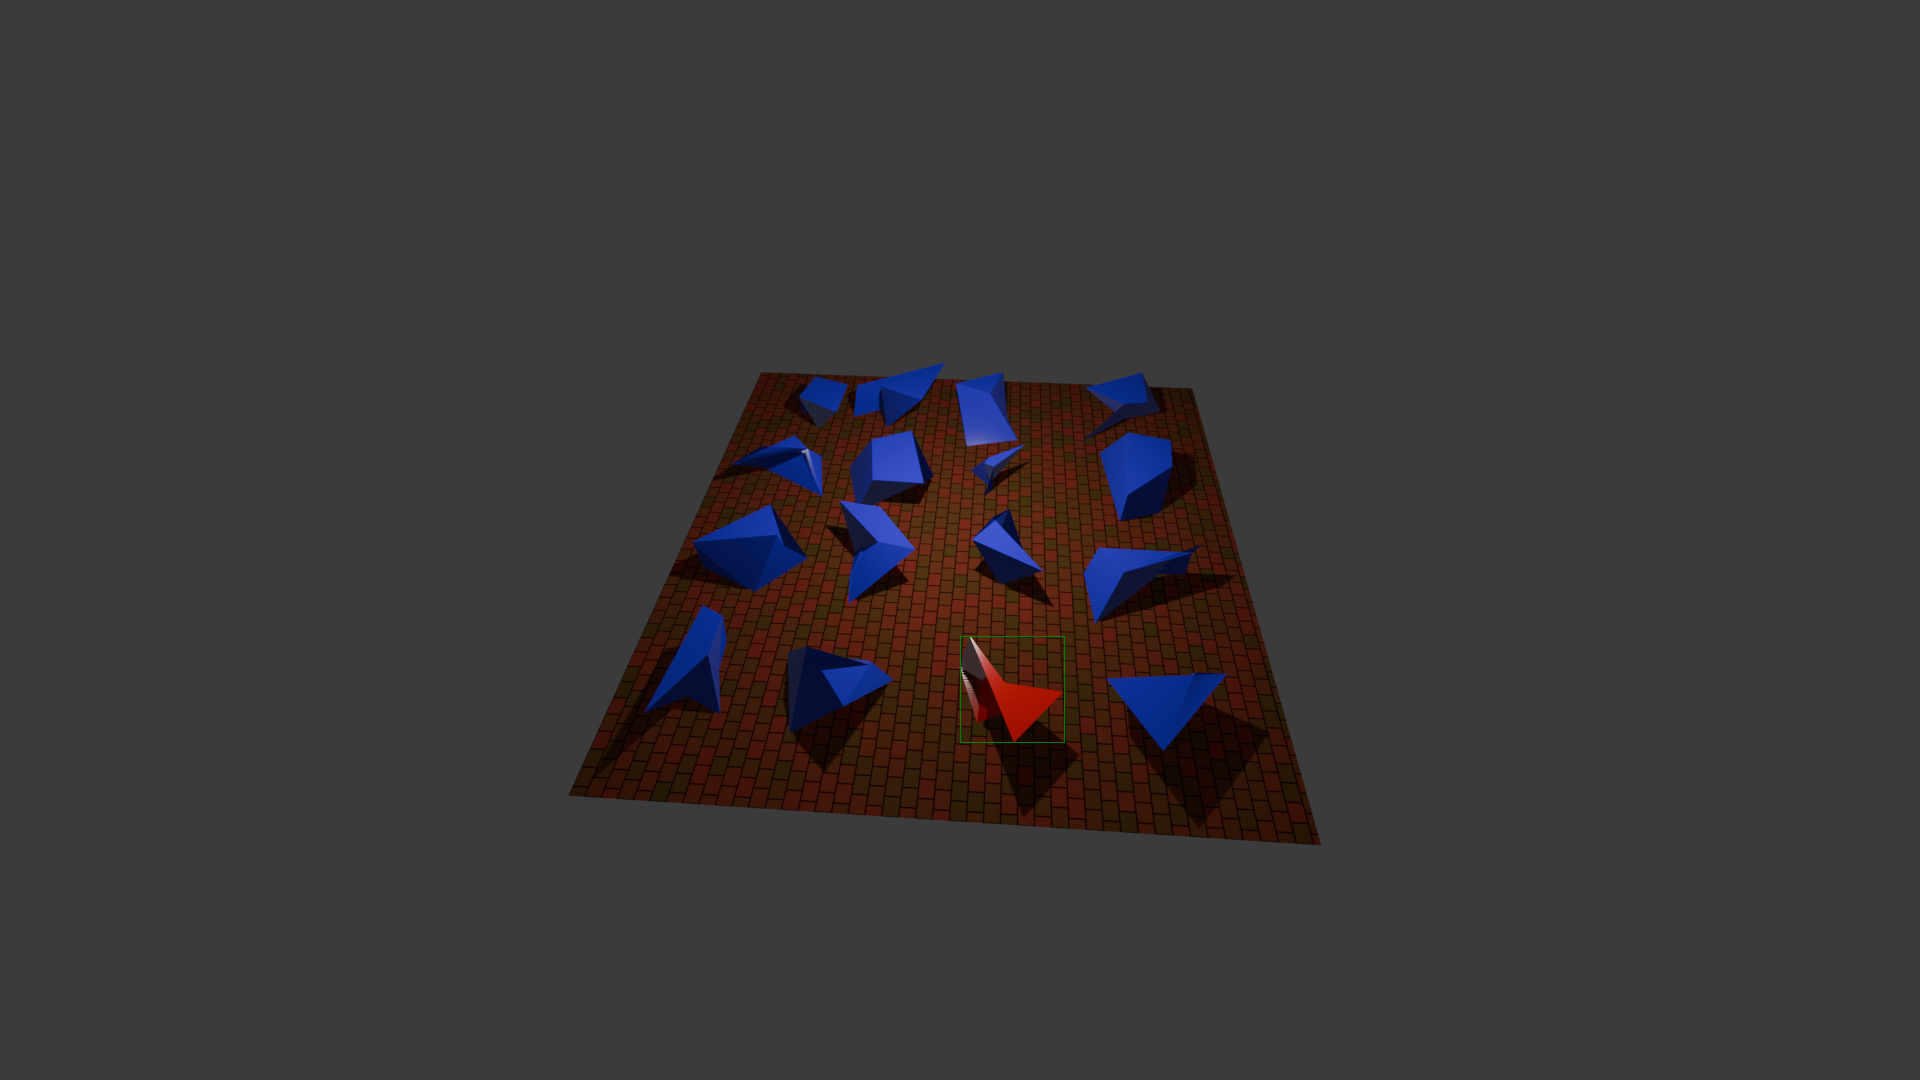
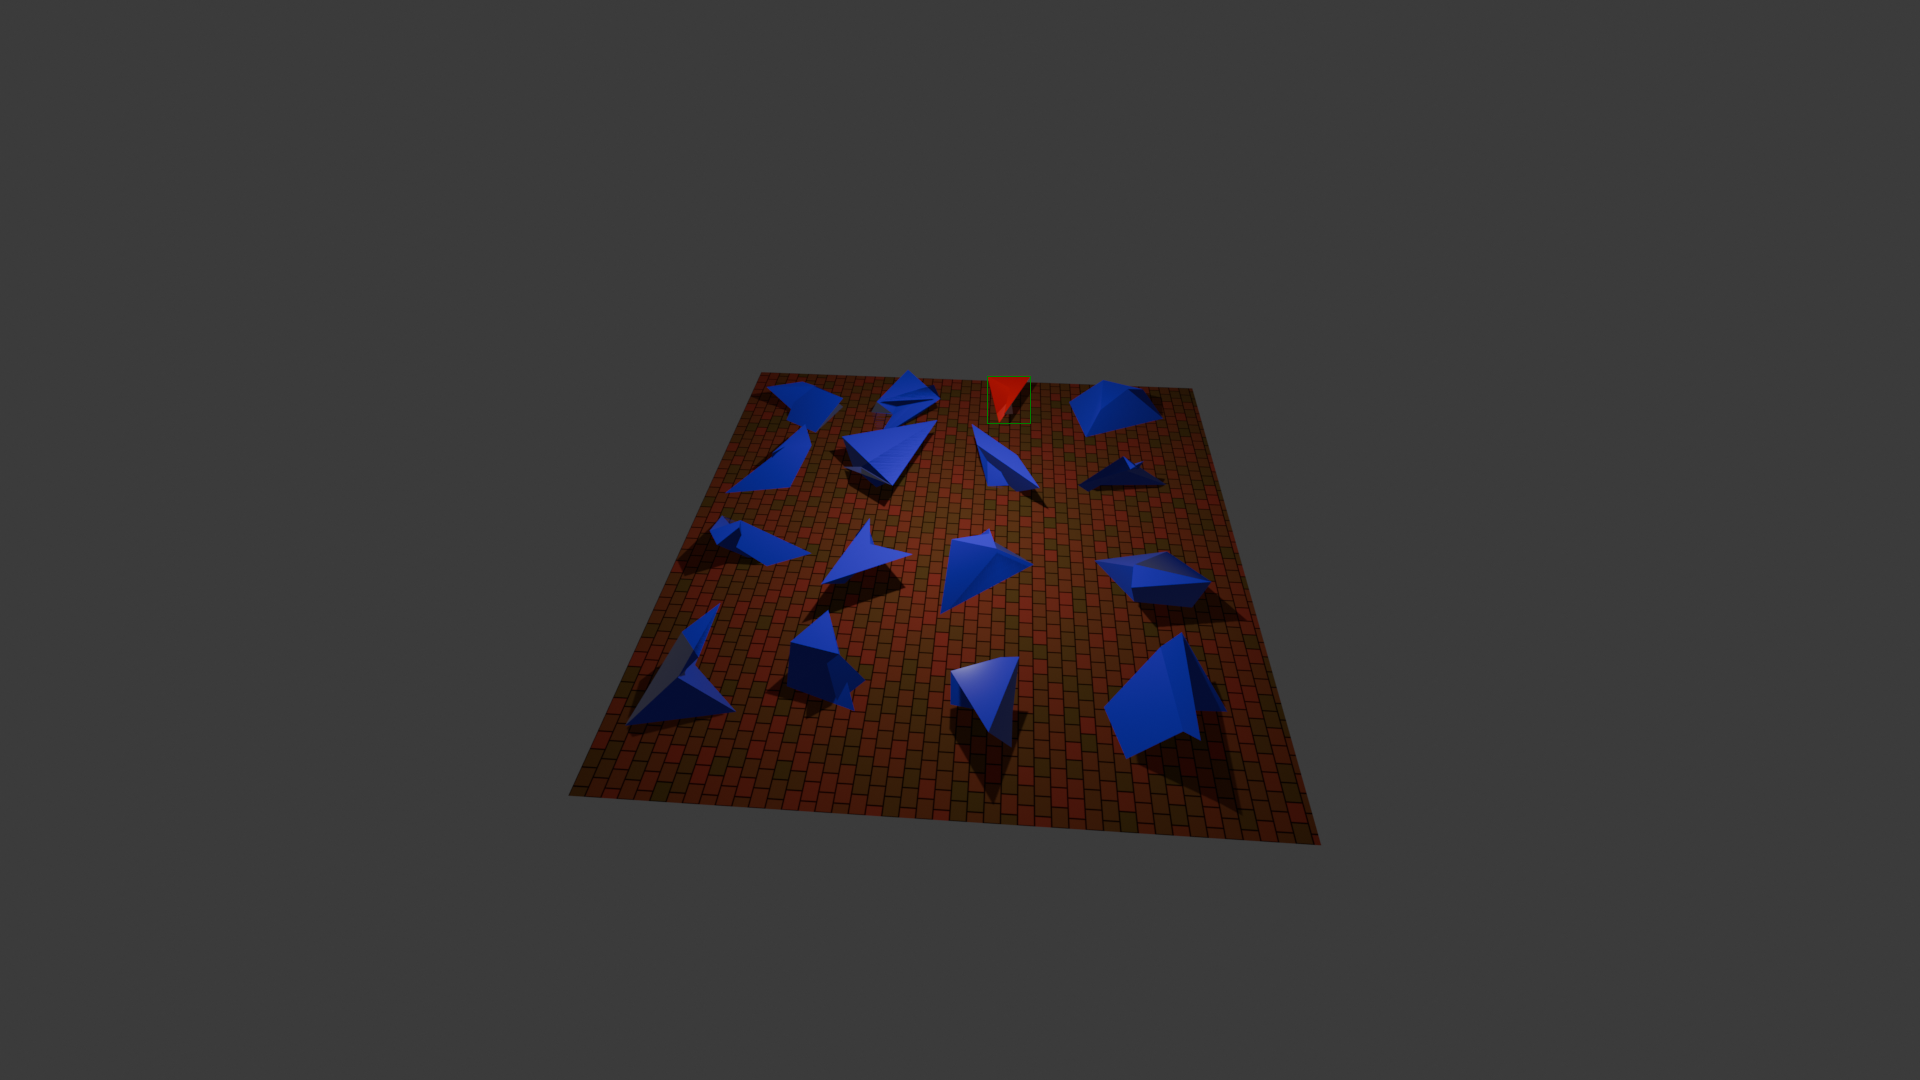
Added yolo style formatation

Changed region(s): [[0.3125, 0.3361, 0.6562, 0.7639]]

diff --git a/src/boundingbox.py b/src/boundingbox.py
@@ -95,11 +95,15 @@ def camera_view_bounds_2d(scene, cam_ob, me_ob,filename):
 
     # Sanity check
     if round((max_x - min_x) * dim_x) == 0 or round((max_y - min_y) * dim_y) == 0:
-        return (0, 0, 0, 0)
-
-    image_with_bb(filename,round(min_x * dim_x),            
-        round(dim_y - max_y * dim_y),    
-        round((max_x - min_x) * dim_x),  
-        round((max_y - min_y) * dim_y) )
+        x,y,width,height =0,0,0,0
+    else:
+        x=round(min_x * dim_x)
+        y = round(dim_y - max_y * dim_y)
+        width = round((max_x - min_x) * dim_x)
+        height = round((max_y - min_y) * dim_y)
+    with open(filename+'.txt', 'w') as f:
+        f.write('0 {} {} {} {} '.format(x,y,width,height))
+    
+    image_with_bb(filename,x,y,width ,height)
    
     
